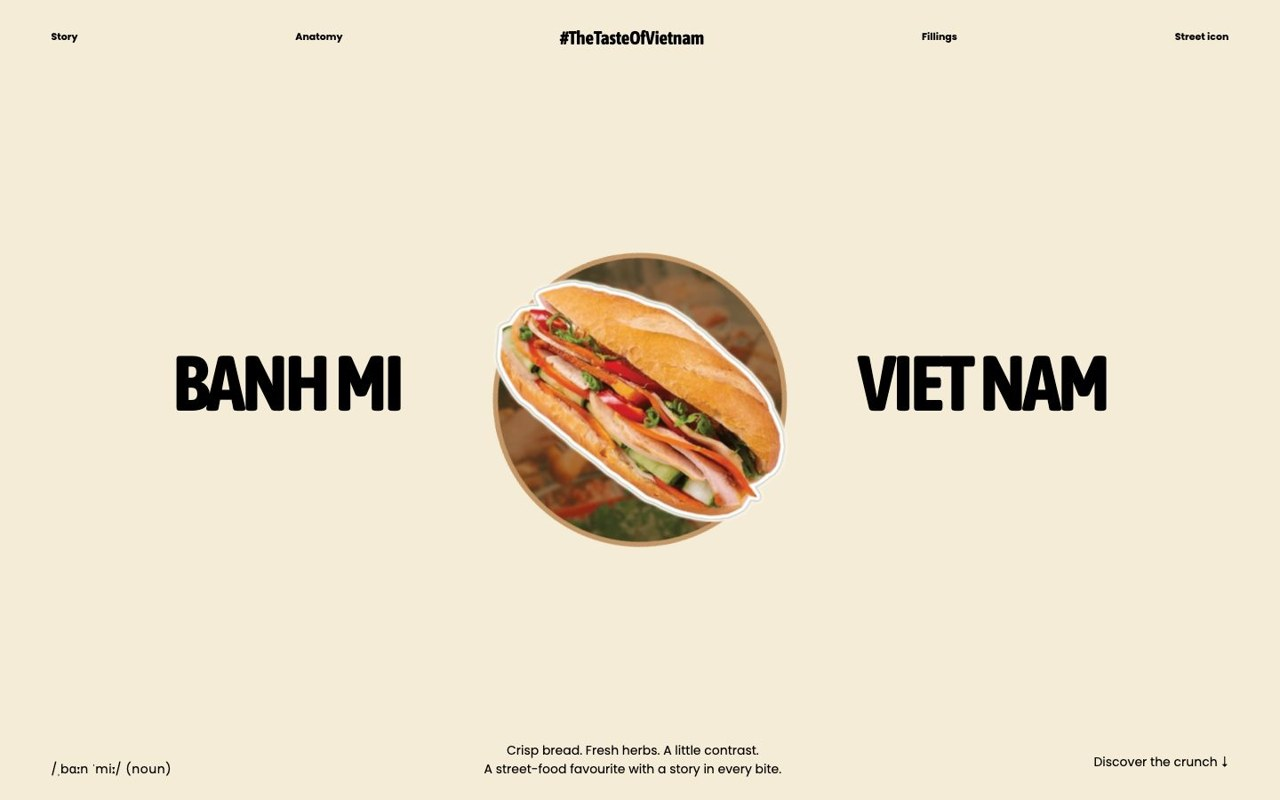
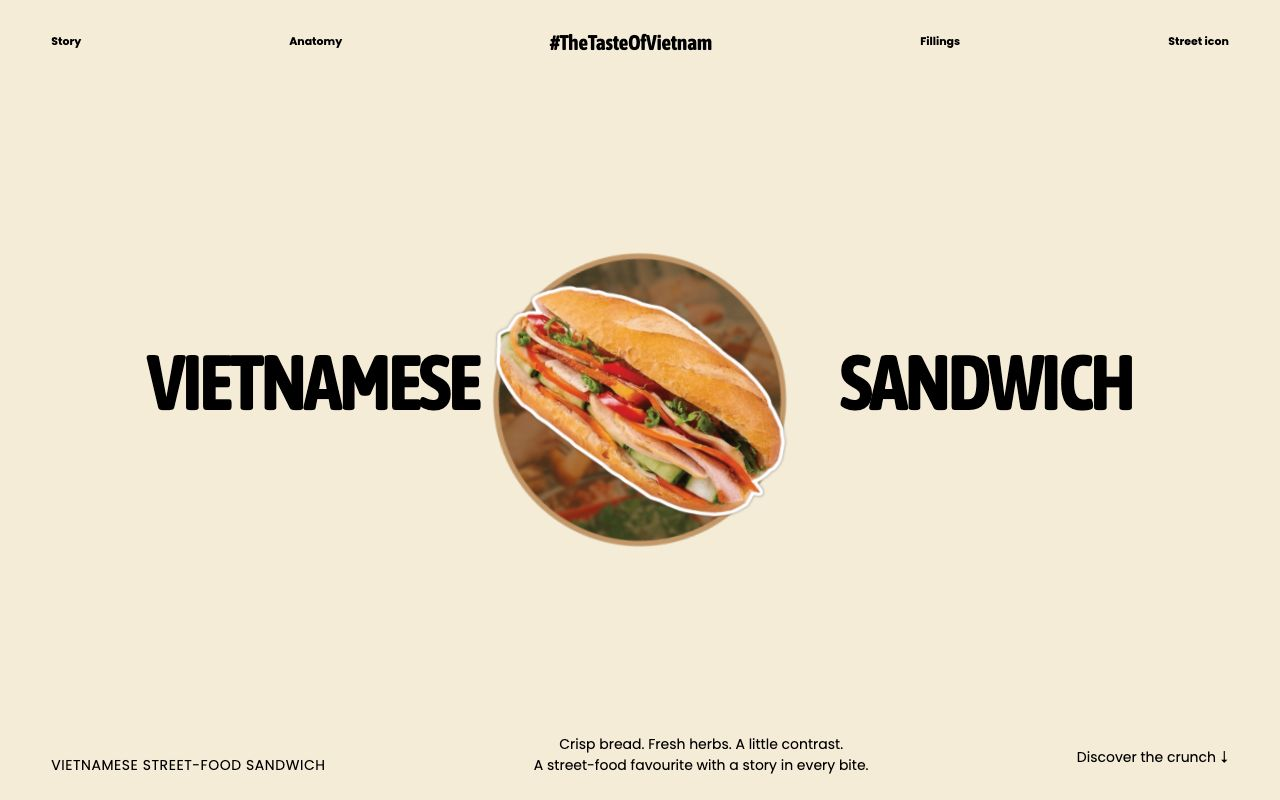
Translate sandwich showcase into English

diff --git a/public/showcase/crunch/index.html b/public/showcase/crunch/index.html
@@ -1,13 +1,13 @@
-<!doctype html><html lang="en"><head><meta charset="utf-8"><meta name="viewport" content="width=device-width,initial-scale=1"><base href="/showcase/crunch/"><title>Bánh Mì — Interactive reference study</title><meta name="description" content="A credited interactive reference study of Bánh Mì Vietnam by HoQuan, implemented for Hemal Herath’s portfolio."><meta name="theme-color" content="#f5ecd7"><link rel="preconnect" href="https://fonts.googleapis.com"><link rel="preconnect" href="https://fonts.gstatic.com" crossorigin><link href="https://fonts.googleapis.com/css2?family=Asap+Condensed:wght@400;700&family=Poppins:wght@400;700&display=swap" rel="stylesheet"><link rel="stylesheet" href="style.css"><link rel="stylesheet" href="editorial.css"><link rel="preload" as="image" href="reference-media/hero-banh-mi.png"><script>setTimeout(()=>{if(document.body?.classList.contains('is-ready'))return;document.querySelector('.loader')?.remove();document.body?.classList.remove('is-loading');document.body?.classList.add('is-ready');document.querySelector('main')?.removeAttribute('inert');document.querySelector('header')?.removeAttribute('inert');document.querySelector('footer')?.removeAttribute('inert');document.dispatchEvent(new Event('site-ready'))},10000)</script><noscript><style>.loader{display:none}.food-film{height:auto!important}.food-stage{position:relative!important;height:auto!important}.food-beat{position:relative!important;opacity:1!important;visibility:visible!important}.sandwich{display:none}.evolution,.history-story{height:auto}.history-pin{height:auto;position:relative;padding:100px 20px 40px}.history-cards{position:relative;inset:auto;display:grid;gap:30px}.history-card{position:relative;min-height:80svh}</style></noscript></head><body>
-<div class="loader" role="status" aria-label="Preparing the Crunch Club story"><div class="load-top mono"><span>CRUNCH CLUB</span><span>GOOD THINGS COME TO THE CURIOUS.</span></div><div class="load-center"><svg viewBox="0 0 160 75" aria-hidden="true"><path d="M13 49C0 39 12 16 35 13L124 8C150 6 165 29 146 44Z"/><path d="m35 14 15 20m19-22 14 20m18-21 14 20M15 53l132-8M17 60l125-8"/></svg><p>BÁNH MÌ<br>VIỆT NAM</p></div><div class="load-bottom"><span class="mono">GETTING THE GOOD STUFF READY</span><span class="load-count" aria-hidden="true">00</span><div class="load-line"><span></span></div></div></div>
+<!doctype html><html lang="en"><head><meta charset="utf-8"><meta name="viewport" content="width=device-width,initial-scale=1"><base href="/showcase/crunch/"><title>Vietnamese Sandwich — Interactive reference study</title><meta name="description" content="An English-language interactive study of HoQuan’s Vietnamese sandwich editorial, implemented for Hemal Herath’s portfolio."><meta name="theme-color" content="#f5ecd7"><link rel="preconnect" href="https://fonts.googleapis.com"><link rel="preconnect" href="https://fonts.gstatic.com" crossorigin><link href="https://fonts.googleapis.com/css2?family=Asap+Condensed:wght@400;700&family=Poppins:wght@400;700&display=swap" rel="stylesheet"><link rel="stylesheet" href="style.css"><link rel="stylesheet" href="editorial.css"><link rel="preload" as="image" href="reference-media/hero-banh-mi.png"><script>setTimeout(()=>{if(document.body?.classList.contains('is-ready'))return;document.querySelector('.loader')?.remove();document.body?.classList.remove('is-loading');document.body?.classList.add('is-ready');document.querySelector('main')?.removeAttribute('inert');document.querySelector('header')?.removeAttribute('inert');document.querySelector('footer')?.removeAttribute('inert');document.dispatchEvent(new Event('site-ready'))},10000)</script><noscript><style>.loader{display:none}.food-film{height:auto!important}.food-stage{position:relative!important;height:auto!important}.food-beat{position:relative!important;opacity:1!important;visibility:visible!important}.sandwich{display:none}.evolution,.history-story{height:auto}.history-pin{height:auto;position:relative;padding:100px 20px 40px}.history-cards{position:relative;inset:auto;display:grid;gap:30px}.history-card{position:relative;min-height:80svh}</style></noscript></head><body>
+<div class="loader" role="status" aria-label="Preparing the Crunch Club story"><div class="load-top mono"><span>CRUNCH CLUB</span><span>GOOD THINGS COME TO THE CURIOUS.</span></div><div class="load-center"><svg viewBox="0 0 160 75" aria-hidden="true"><path d="M13 49C0 39 12 16 35 13L124 8C150 6 165 29 146 44Z"/><path d="m35 14 15 20m19-22 14 20m18-21 14 20M15 53l132-8M17 60l125-8"/></svg><p>VIETNAMESE<br>SANDWICH</p></div><div class="load-bottom"><span class="mono">GETTING THE GOOD STUFF READY</span><span class="load-count" aria-hidden="true">00</span><div class="load-line"><span></span></div></div></div>
 <a class="skip" href="#evolution">Skip to the story</a><header class="food-header"><a href="#evolution">Story</a><a href="#anatomy-spread">Anatomy</a><a class="logo" href="#home">#TheTasteOfVietnam</a><a href="#fillings">Fillings</a><a href="#street-icon">Street icon</a><button data-menu-open aria-label="Open menu" aria-haspopup="dialog" aria-expanded="false">Menu</button></header><dialog class="site-menu" id="site-menu" aria-labelledby="menu-title"><div><h2 id="menu-title" class="mono">CRUNCH CLUB / EXPLORE</h2><button data-menu-close aria-label="Close menu">×</button></div><nav><a href="#home">THE FIRST BITE ↗</a><a href="#evolution">THE EVOLUTION ↗</a><a href="#history">THE HISTORY ↗</a><a href="#anatomy-spread">ANATOMY ↗</a><a href="#fillings">FILLINGS & GALLERY ↗</a><a href="#street-icon">STREET ICON ↗</a><a href="/showcase">HEMAL’S SHOWCASE ↗</a></nav></dialog>
-<div class="page-progress" aria-hidden="true"><span></span></div><main><section class="food-film film" id="home"><div class="food-stage"><div class="food-hero"><h1><span>BANH MI</span><span>VIET NAM</span></h1><div class="hero-bottom"><span class="mono">/ˌbɑːn ˈmiː/ (noun)</span><p>Crisp bread. Fresh herbs. A little contrast.<br>A street-food favourite with a story in every bite.</p><a href="#evolution">Discover the crunch ↓</a></div></div><div class="sandwich-orbit"><div class="food-circle"><img src="reference-media/hero-banh-mi-circle-bg.png" alt="" aria-hidden="true" width="800" height="800"></div><div class="sandwich"><img class="assembled" src="reference-media/hero-banh-mi.png" alt="Vietnamese bánh mì sandwich" data-critical width="800" height="800"></div></div></div></section><section class="evolution" id="evolution"><div class="evolution-pin"><figure class="evo-photo evo-0"><img src="reference-media/evolution-1.png" alt="A crisp Vietnamese sandwich" loading="lazy" width="1200" height="1500"></figure><figure class="evo-photo evo-1"><img src="reference-media/evolution-2.png" alt="Bánh mì with ham and vegetables" loading="lazy" width="1200" height="1500"></figure><figure class="evo-photo evo-2"><img src="reference-media/evolution-3.png" alt="A sandwich enjoyed outside" loading="lazy" width="1200" height="1500"></figure><figure class="evo-photo evo-3"><img src="reference-media/evolution-4.png" alt="Bread and sandwiches at a café" loading="lazy" width="1200" height="1500"></figure><figure class="evo-photo evo-4"><img src="reference-media/evolution-5.png" alt="A colourful Vietnamese sandwich" loading="lazy" width="1200" height="1500"></figure><figure class="evo-photo evo-5"><img src="reference-media/evolution-6.png" alt="Bánh mì served on newspaper" loading="lazy" width="1200" height="1500"></figure><div class="evolution-copy"><p class="mono">01 / A LITTLE HISTORY, A LOT OF FLAVOUR</p><h2>THE EVOLUTION<br>OF BÁNH MÌ</h2><p>French roots.<br>A Vietnamese original.</p></div><a class="evolution-next mono" href="#history">FOLLOW THE STORY ↓</a></div></section>
-<section class="history-story" id="history" aria-labelledby="history-title"><div class="history-pin"><h2 class="sr-only" id="history-title">The bánh mì story through time</h2><span class="history-index mono">01 / 03</span><div class="history-cards">
+<div class="page-progress" aria-hidden="true"><span></span></div><main><section class="food-film film" id="home"><div class="food-stage"><div class="food-hero"><h1><span>VIETNAMESE</span><span>SANDWICH</span></h1><div class="hero-bottom"><span class="mono">VIETNAMESE STREET-FOOD SANDWICH</span><p>Crisp bread. Fresh herbs. A little contrast.<br>A street-food favourite with a story in every bite.</p><a href="#evolution">Discover the crunch ↓</a></div></div><div class="sandwich-orbit"><div class="food-circle"><img src="reference-media/hero-banh-mi-circle-bg.png" alt="" aria-hidden="true" width="800" height="800"></div><div class="sandwich"><img class="assembled" src="reference-media/hero-banh-mi.png" alt="Vietnamese sandwich" data-critical width="800" height="800"></div></div></div></section><section class="evolution" id="evolution"><div class="evolution-pin"><figure class="evo-photo evo-0"><img src="reference-media/evolution-1.png" alt="A crisp Vietnamese sandwich" loading="lazy" width="1200" height="1500"></figure><figure class="evo-photo evo-1"><img src="reference-media/evolution-2.png" alt="Vietnamese sandwich with ham and vegetables" loading="lazy" width="1200" height="1500"></figure><figure class="evo-photo evo-2"><img src="reference-media/evolution-3.png" alt="A sandwich enjoyed outside" loading="lazy" width="1200" height="1500"></figure><figure class="evo-photo evo-3"><img src="reference-media/evolution-4.png" alt="Bread and sandwiches at a café" loading="lazy" width="1200" height="1500"></figure><figure class="evo-photo evo-4"><img src="reference-media/evolution-5.png" alt="A colourful Vietnamese sandwich" loading="lazy" width="1200" height="1500"></figure><figure class="evo-photo evo-5"><img src="reference-media/evolution-6.png" alt="Vietnamese sandwich served on newspaper" loading="lazy" width="1200" height="1500"></figure><div class="evolution-copy"><p class="mono">01 / A LITTLE HISTORY, A LOT OF FLAVOUR</p><h2>THE EVOLUTION<br>OF THE SANDWICH</h2><p>French roots.<br>A Vietnamese original.</p></div><a class="evolution-next mono" href="#history">FOLLOW THE STORY ↓</a></div></section>
+<section class="history-story" id="history" aria-labelledby="history-title"><div class="history-pin"><h2 class="sr-only" id="history-title">The Vietnamese sandwich story through time</h2><span class="history-index mono">01 / 03</span><div class="history-cards">
 <article class="history-card"><div class="history-text"><p class="mono">01 / THE BEGINNING</p><h3>French roots.<br>Vietnamese spirit.</h3><p>The baguette arrived in Vietnam more than a century ago. Local cooks would turn that familiar bread into something with a flavour all its own.</p><span class="history-year">1800s</span></div><img src="reference-media/banh-mi-1859.png" alt="Bread and sandwiches on a café table" loading="lazy" width="1200" height="1600"></article>
 <article class="history-card"><div class="history-text"><p class="mono">02 / MADE ITS OWN</p><h3>A street-food<br>original.</h3><p>Some accounts trace the filled sandwich to Saigon’s street stalls in the late 1950s. Its exact origin remains debated; its mix of fresh herbs, pickles and savoury fillings is unmistakable.</p><span class="history-year">1950s</span></div><img src="reference-media/banh-mi-1958.png" alt="Vietnamese sandwiches filled with meat and vegetables" loading="lazy" width="1200" height="1600"></article>
-<article class="history-card"><div class="history-text"><p class="mono">03 / A WORD OF ITS OWN</p><h3>One small bite.<br>A world of recognition.</h3><p>In 2011, bánh mì entered the Oxford English Dictionary. A local favourite had a place in the world’s vocabulary, with countless interpretations still to come.</p><span class="history-year">2011</span></div><img src="reference-media/banh-mi-2011.png" alt="Bánh mì served on newspaper" loading="lazy" width="1200" height="1600"></article>
+<article class="history-card"><div class="history-text"><p class="mono">03 / A WORD OF ITS OWN</p><h3>One small bite.<br>A world of recognition.</h3><p>In 2011, the Vietnamese name for this sandwich entered the Oxford English Dictionary. A local favourite had a place in the world’s vocabulary, with countless interpretations still to come.</p><span class="history-year">2011</span></div><img src="reference-media/banh-mi-2011.png" alt="Vietnamese sandwich served on newspaper" loading="lazy" width="1200" height="1600"></article>
 </div><a class="history-source" href="https://doodles.google/doodle/celebrating-banh-mi/" target="_blank" rel="noopener noreferrer">History notes ↗</a></div></section>
-<section class="anatomy-spread" id="anatomy-spread" aria-labelledby="anatomy-title"><div class="anatomy-pattern" aria-hidden="true">EVERY LITTLE INGREDIENT / EVERY LITTLE INGREDIENT / EVERY LITTLE INGREDIENT /</div><p class="mono anatomy-kicker">02 / THE WHOLE IS GREATER THAN THE SUM</p><h2 id="anatomy-title">ANATOMY</h2><div class="corner-cut corner-one" aria-hidden="true"><img src="reference-media/carrot.png" alt=""></div><div class="corner-cut corner-two" aria-hidden="true"><img src="reference-media/cucumber.png" alt=""></div><div class="corner-cut corner-three" aria-hidden="true"><img src="reference-media/coriander.png" alt=""></div><div class="corner-cut corner-four" aria-hidden="true"><img src="reference-media/chilli.png" alt=""></div><div class="anatomy-layout"><ul class="anatomy-list list-left"><li>Crisp baguette</li><li>Savoury filling</li><li>Pâté</li><li>Mayonnaise</li><li>Soy sauce</li></ul><div class="anatomy-centre"><img class="anatomy-star" src="reference-media/star-red-10.svg" alt="" aria-hidden="true"><img class="anatomy-sandwich" src="reference-media/anatomy-banh-mi.png" alt="A bánh mì with crisp bread, savoury filling, herbs and pickles" loading="lazy" width="1536" height="1024"></div><ul class="anatomy-list list-right"><li>Pickled daikon</li><li>Cucumber</li><li>Coriander</li><li>Carrot</li><li>Chilli</li></ul></div><span class="anatomy-word">BÁNH MÌ</span><p class="anatomy-note">Every cook has a version. Every layer brings something.</p></section>
-<section class="fillings-title" id="fillings"><p class="mono">03 / MANY WAYS TO MAKE IT YOURS</p><h2><span>TYPES OF <i><img src="reference-media/topping-1.png" alt="" aria-hidden="true" width="1536" height="1024"></i></span><span><i class="type-green"><img src="reference-media/topping-2.png" alt="" aria-hidden="true" width="1536" height="1024"></i> BÁNH MÌ</span><span>FILLINGS <i class="type-clay"><img src="reference-media/topping-3.png" alt="" aria-hidden="true" width="1536" height="1024"></i></span></h2><a href="#food-gallery" class="mono">TAKE A CLOSER LOOK ↓</a></section>
-<section class="food-gallery" id="food-gallery" aria-labelledby="gallery-title"><div class="gallery-copy"><p class="mono">GOOD THINGS, SIDE BY SIDE</p><h2 id="gallery-title">ONE BREAD.<br>SO MANY POSSIBILITIES.</h2><p>A different filling. A different table.<br>There’s always another good bite to discover.</p></div><div class="gallery-window" role="region" aria-roledescription="carousel" aria-label="Bánh mì photo gallery" tabindex="0"><div class="gallery-track"><figure class="gallery-slide"><img src="reference-media/fillings-1.png" alt="Vietnamese bánh mì and accompanying dishes, photo 1" loading="lazy" width="1000" height="1200"><figcaption><span class="mono">01 / 08</span></figcaption></figure><figure class="gallery-slide"><img src="reference-media/fillings-2.png" alt="Vietnamese bánh mì and accompanying dishes, photo 2" loading="lazy" width="1000" height="1200"><figcaption><span class="mono">02 / 08</span></figcaption></figure><figure class="gallery-slide"><img src="reference-media/fillings-3.png" alt="Vietnamese bánh mì and accompanying dishes, photo 3" loading="lazy" width="1000" height="1200"><figcaption><span class="mono">03 / 08</span></figcaption></figure><figure class="gallery-slide"><img src="reference-media/fillings-4.png" alt="Vietnamese bánh mì and accompanying dishes, photo 4" loading="lazy" width="1000" height="1200"><figcaption><span class="mono">04 / 08</span></figcaption></figure><figure class="gallery-slide"><img src="reference-media/fillings-5.png" alt="Vietnamese bánh mì and accompanying dishes, photo 5" loading="lazy" width="1000" height="1200"><figcaption><span class="mono">05 / 08</span></figcaption></figure><figure class="gallery-slide"><img src="reference-media/fillings-6.png" alt="Vietnamese bánh mì and accompanying dishes, photo 6" loading="lazy" width="1000" height="1200"><figcaption><span class="mono">06 / 08</span></figcaption></figure><figure class="gallery-slide"><img src="reference-media/fillings-7.png" alt="Vietnamese bánh mì and accompanying dishes, photo 7" loading="lazy" width="1000" height="1200"><figcaption><span class="mono">07 / 08</span></figcaption></figure><figure class="gallery-slide"><img src="reference-media/fillings-8.png" alt="Vietnamese bánh mì and accompanying dishes, photo 8" loading="lazy" width="1000" height="1200"><figcaption><span class="mono">08 / 08</span></figcaption></figure></div></div><div class="gallery-controls"><button class="gallery-prev" aria-label="Previous gallery photo">←</button><p class="gallery-status mono" aria-live="polite">01 / 08</p><button class="gallery-next" aria-label="Next gallery photo">→</button></div></section><section class="street-icon" id="street-icon"><div class="street-icon-pin"><img class="street-icon-photo icon-photo-one" src="reference-media/street-image-1.png" alt="Vietnamese street-food scene" loading="lazy"><img class="street-icon-photo icon-photo-two" src="reference-media/popular-dish.png" alt="Bánh mì as a popular everyday meal" loading="lazy"><h2>A SMALL SANDWICH.<br>A BIG PART OF<br>VIETNAM’S STREETS.</h2><img class="street-icon-photo icon-photo-three" src="reference-media/delicious-flavor.png" alt="Fresh bánh mì ingredients" loading="lazy"><img class="street-icon-photo icon-photo-four" src="reference-media/street-image-2.png" alt="Everyday food on the streets of Vietnam" loading="lazy"></div></section><section class="closing closing-collage" id="closing"><img class="closing-background" src="reference-media/footer-bg-image.png" alt="" aria-hidden="true" loading="lazy" width="1800" height="2400"><img class="closing-bite closing-bite-one" src="reference-media/footer-banh-mi-top.png" alt="" aria-hidden="true" loading="lazy" width="1536" height="1024"><img class="closing-bite closing-bite-two" src="reference-media/footer-banh-mi-bottom.png" alt="" aria-hidden="true" loading="lazy" width="1536" height="1024"><p class="mono closing-kicker">A LITTLE BREAD. A BIG STORY.</p><h2>“BÁNH MÌ”<br>VIET NAM</h2><div class="paper-invitation"><img class="reference-paper" src="reference-media/footer-paper-center.png" alt="An invitation to visit Vietnam and enjoy bánh mì" width="1000" height="190"></div><a class="closing-contact" href="https://wa.me/94718850419?text=Hi%20Hemal%2C%20I%20like%20the%20Crunch%20Club%20concept.%20Can%20we%20discuss%20a%20website%3F" target="_blank" rel="noopener noreferrer">MAKE YOUR BRAND FEEL THIS ALIVE ↗</a><a class="closing-top mono" href="#home">BACK TO THE FIRST BITE ↑</a></section></main>
-<footer><a href="/showcase">← HEMAL’S SHOWCASE</a><span>REFERENCE STUDY / DESIGN & ASSETS: HOQUAN</span><button id="credits-open">PHOTO CREDITS ↗</button><a href="#home">BACK TO TOP ↑</a></footer><dialog id="credits"><button class="dialog-close" aria-label="Close photo credits">×</button><h2>GOOD FOOD.<br>GOOD PHOTOS.</h2><p>A reference study implemented by Hemal Herath. Visual design and reference artwork: HoQuan / Bánh Mì Vietnam. Additional photography: Pexels. This is an educational portfolio study, not an original client commission.</p><a href="https://banhmivietnam.xyz/" target="_blank" rel="noopener noreferrer">Original design & assets — Bánh Mì Vietnam / HoQuan ↗</a><a href="https://www.pexels.com/photo/fresh-vietnamese-banh-mi-sandwich-close-up-36156594/" target="_blank" rel="noopener noreferrer">Sandwich — Robby McCullough ↗</a><a href="https://www.pexels.com/photo/vibrant-vietnamese-banh-mi-sandwich-close-up-32961648/" target="_blank" rel="noopener noreferrer">Colourful bánh mì ↗</a><a href="https://www.pexels.com/photo/delicious-vietnamese-banh-mi-sandwich-outdoor-shot-32744907/" target="_blank" rel="noopener noreferrer">Street-food photo ↗</a><a href="https://www.pexels.com/photo/rolls-with-ham-and-vegetables-17748172/" target="_blank" rel="noopener noreferrer">Sandwiches on a tray ↗</a><a href="https://www.pexels.com/photo/slices-of-breads-1483769/" target="_blank" rel="noopener noreferrer">Bread & café table ↗</a><a href="https://www.pexels.com/photo/32961654/" target="_blank" rel="noopener noreferrer">Bánh mì on newspaper ↗</a><a href="https://www.vietnam.travel/things-to-do/banh-mi-in-vietnam" target="_blank" rel="noopener noreferrer">Food & history notes — Vietnam Tourism ↗</a><a href="https://www.pexels.com/license/" target="_blank" rel="noopener noreferrer">Pexels license ↗</a></dialog><div class="cursor" aria-hidden="true"></div><script type="module" src="script.js"></script></body></html>
+<section class="anatomy-spread" id="anatomy-spread" aria-labelledby="anatomy-title"><div class="anatomy-pattern" aria-hidden="true">EVERY LITTLE INGREDIENT / EVERY LITTLE INGREDIENT / EVERY LITTLE INGREDIENT /</div><p class="mono anatomy-kicker">02 / THE WHOLE IS GREATER THAN THE SUM</p><h2 id="anatomy-title">ANATOMY</h2><div class="corner-cut corner-one" aria-hidden="true"><img src="reference-media/carrot.png" alt=""></div><div class="corner-cut corner-two" aria-hidden="true"><img src="reference-media/cucumber.png" alt=""></div><div class="corner-cut corner-three" aria-hidden="true"><img src="reference-media/coriander.png" alt=""></div><div class="corner-cut corner-four" aria-hidden="true"><img src="reference-media/chilli.png" alt=""></div><div class="anatomy-layout"><ul class="anatomy-list list-left"><li>Crisp baguette</li><li>Savoury filling</li><li>Pâté</li><li>Mayonnaise</li><li>Soy sauce</li></ul><div class="anatomy-centre"><img class="anatomy-star" src="reference-media/star-red-10.svg" alt="" aria-hidden="true"><img class="anatomy-sandwich" src="reference-media/anatomy-banh-mi.png" alt="A Vietnamese sandwich with crisp bread, savoury filling, herbs and pickles" loading="lazy" width="1536" height="1024"></div><ul class="anatomy-list list-right"><li>Pickled daikon</li><li>Cucumber</li><li>Coriander</li><li>Carrot</li><li>Chilli</li></ul></div><span class="anatomy-word">SANDWICH</span><p class="anatomy-note">Every cook has a version. Every layer brings something.</p></section>
+<section class="fillings-title" id="fillings"><p class="mono">03 / MANY WAYS TO MAKE IT YOURS</p><h2><span>TYPES OF <i><img src="reference-media/topping-1.png" alt="" aria-hidden="true" width="1536" height="1024"></i></span><span><i class="type-green"><img src="reference-media/topping-2.png" alt="" aria-hidden="true" width="1536" height="1024"></i> SANDWICH</span><span>FILLINGS <i class="type-clay"><img src="reference-media/topping-3.png" alt="" aria-hidden="true" width="1536" height="1024"></i></span></h2><a href="#food-gallery" class="mono">TAKE A CLOSER LOOK ↓</a></section>
+<section class="food-gallery" id="food-gallery" aria-labelledby="gallery-title"><div class="gallery-copy"><p class="mono">GOOD THINGS, SIDE BY SIDE</p><h2 id="gallery-title">ONE BREAD.<br>SO MANY POSSIBILITIES.</h2><p>A different filling. A different table.<br>There’s always another good bite to discover.</p></div><div class="gallery-window" role="region" aria-roledescription="carousel" aria-label="Vietnamese sandwich photo gallery" tabindex="0"><div class="gallery-track"><figure class="gallery-slide"><img src="reference-media/fillings-1.png" alt="Vietnamese sandwiches and accompanying dishes, photo 1" loading="lazy" width="1000" height="1200"><figcaption><span class="mono">01 / 08</span></figcaption></figure><figure class="gallery-slide"><img src="reference-media/fillings-2.png" alt="Vietnamese sandwiches and accompanying dishes, photo 2" loading="lazy" width="1000" height="1200"><figcaption><span class="mono">02 / 08</span></figcaption></figure><figure class="gallery-slide"><img src="reference-media/fillings-3.png" alt="Vietnamese sandwiches and accompanying dishes, photo 3" loading="lazy" width="1000" height="1200"><figcaption><span class="mono">03 / 08</span></figcaption></figure><figure class="gallery-slide"><img src="reference-media/fillings-4.png" alt="Vietnamese sandwiches and accompanying dishes, photo 4" loading="lazy" width="1000" height="1200"><figcaption><span class="mono">04 / 08</span></figcaption></figure><figure class="gallery-slide"><img src="reference-media/fillings-5.png" alt="Vietnamese sandwiches and accompanying dishes, photo 5" loading="lazy" width="1000" height="1200"><figcaption><span class="mono">05 / 08</span></figcaption></figure><figure class="gallery-slide"><img src="reference-media/fillings-6.png" alt="Vietnamese sandwiches and accompanying dishes, photo 6" loading="lazy" width="1000" height="1200"><figcaption><span class="mono">06 / 08</span></figcaption></figure><figure class="gallery-slide"><img src="reference-media/fillings-7.png" alt="Vietnamese sandwiches and accompanying dishes, photo 7" loading="lazy" width="1000" height="1200"><figcaption><span class="mono">07 / 08</span></figcaption></figure><figure class="gallery-slide"><img src="reference-media/fillings-8.png" alt="Vietnamese sandwiches and accompanying dishes, photo 8" loading="lazy" width="1000" height="1200"><figcaption><span class="mono">08 / 08</span></figcaption></figure></div></div><div class="gallery-controls"><button class="gallery-prev" aria-label="Previous gallery photo">←</button><p class="gallery-status mono" aria-live="polite">01 / 08</p><button class="gallery-next" aria-label="Next gallery photo">→</button></div></section><section class="street-icon" id="street-icon"><div class="street-icon-pin"><img class="street-icon-photo icon-photo-one" src="reference-media/street-image-1.png" alt="Vietnamese street-food scene" loading="lazy"><img class="street-icon-photo icon-photo-two" src="reference-media/popular-dish.png" alt="Vietnamese sandwich as a popular everyday meal" loading="lazy"><h2>A SMALL SANDWICH.<br>A BIG PART OF<br>VIETNAM’S STREETS.</h2><img class="street-icon-photo icon-photo-three" src="reference-media/delicious-flavor.png" alt="Fresh Vietnamese sandwich ingredients" loading="lazy"><img class="street-icon-photo icon-photo-four" src="reference-media/street-image-2.png" alt="Everyday food on the streets of Vietnam" loading="lazy"></div></section><section class="closing closing-collage" id="closing"><img class="closing-background" src="reference-media/footer-bg-image.png" alt="" aria-hidden="true" loading="lazy" width="1800" height="2400"><img class="closing-bite closing-bite-one" src="reference-media/footer-banh-mi-top.png" alt="" aria-hidden="true" loading="lazy" width="1536" height="1024"><img class="closing-bite closing-bite-two" src="reference-media/footer-banh-mi-bottom.png" alt="" aria-hidden="true" loading="lazy" width="1536" height="1024"><p class="mono closing-kicker">A LITTLE BREAD. A BIG STORY.</p><h2>VIETNAMESE<br>SANDWICH</h2><div class="paper-invitation"><img class="reference-paper" src="reference-media/footer-paper-center.png" alt="An invitation to visit Vietnam and enjoy Vietnamese sandwich" width="1000" height="190"></div><a class="closing-contact" href="https://wa.me/94718850419?text=Hi%20Hemal%2C%20I%20like%20the%20Crunch%20Club%20concept.%20Can%20we%20discuss%20a%20website%3F" target="_blank" rel="noopener noreferrer">MAKE YOUR BRAND FEEL THIS ALIVE ↗</a><a class="closing-top mono" href="#home">BACK TO THE FIRST BITE ↑</a></section></main>
+<footer><a href="/showcase">← HEMAL’S SHOWCASE</a><span>REFERENCE STUDY / DESIGN & ASSETS: HOQUAN</span><button id="credits-open">PHOTO CREDITS ↗</button><a href="#home">BACK TO TOP ↑</a></footer><dialog id="credits"><button class="dialog-close" aria-label="Close photo credits">×</button><h2>GOOD FOOD.<br>GOOD PHOTOS.</h2><p>A reference study implemented by Hemal Herath. Visual design and reference artwork: HoQuan’s Vietnamese sandwich editorial. Additional photography: Pexels. This is an educational portfolio study, not an original client commission.</p><a href="https://banhmivietnam.xyz/" target="_blank" rel="noopener noreferrer">Original design & assets — HoQuan ↗</a><a href="https://www.pexels.com/photo/fresh-vietnamese-banh-mi-sandwich-close-up-36156594/" target="_blank" rel="noopener noreferrer">Sandwich — Robby McCullough ↗</a><a href="https://www.pexels.com/photo/vibrant-vietnamese-banh-mi-sandwich-close-up-32961648/" target="_blank" rel="noopener noreferrer">Colourful Vietnamese sandwich ↗</a><a href="https://www.pexels.com/photo/delicious-vietnamese-banh-mi-sandwich-outdoor-shot-32744907/" target="_blank" rel="noopener noreferrer">Street-food photo ↗</a><a href="https://www.pexels.com/photo/rolls-with-ham-and-vegetables-17748172/" target="_blank" rel="noopener noreferrer">Sandwiches on a tray ↗</a><a href="https://www.pexels.com/photo/slices-of-breads-1483769/" target="_blank" rel="noopener noreferrer">Bread & café table ↗</a><a href="https://www.pexels.com/photo/32961654/" target="_blank" rel="noopener noreferrer">Vietnamese sandwich on newspaper ↗</a><a href="https://www.vietnam.travel/things-to-do/banh-mi-in-vietnam" target="_blank" rel="noopener noreferrer">Food & history notes — Vietnam Tourism ↗</a><a href="https://www.pexels.com/license/" target="_blank" rel="noopener noreferrer">Pexels license ↗</a></dialog><div class="cursor" aria-hidden="true"></div><script type="module" src="script.js"></script></body></html>

diff --git a/public/showcase/index.html b/public/showcase/index.html
@@ -231,7 +231,7 @@ footer .wrap{display:flex;justify-content:space-between;gap:16px;flex-wrap:wrap}
 <script type="importmap">{"imports":{"three":"https://cdn.jsdelivr.net/npm/three@0.169.0/build/three.module.js"}}</script>
 <script>
 window.PROJECTS = [
-  {slug:"crunch", name:"Crunch Club", kind:"Bánh Mì · reference study", color:"#d4a373", bg:"#20190e", line:"A credited study of HoQuan’s Bánh Mì Vietnam: photo collage, history cards, anatomy and a touch gallery.", tags:["Editorial motion","Scroll animation","Photo gallery","Reference study"]},
+  {slug:"crunch", name:"Crunch Club", kind:"Vietnamese sandwich · reference study", color:"#d4a373", bg:"#20190e", line:"A credited study of HoQuan’s Vietnamese sandwich editorial: photo collage, history cards, anatomy and a touch gallery.", tags:["Editorial motion","Scroll animation","Photo gallery","Reference study"]},
   {slug:"afterhours", name:"Afterhours", kind:"Crow · reference study", color:"#ff3d81", bg:"#050507", line:"A credited study of Crow / Fly Crooked’s illustrated Rome film, from the flight to an unexpected open door.", tags:["Scroll-driven video","Scroll choreography","Illustrated Rome","Reference study"]},
   {slug:"tea",      name:"Mistline",     kind:"Ceylon tea",       color:"#7fb08a", bg:"#06110c", line:"A mist film behind a soft serif headline, and a pinned climb to 1,868 m that changes the tea as you scroll.", tags:["Video hero","Pinned scroll","SplitText","Editorial"]},
   {slug:"villa",    name:"Saffron Reef", kind:"Tangalle villa",   color:"#e3a23e", bg:"#120b05", line:"A drone film under thin serif capitals, a sticky day-at-the-villa story and hover previews.", tags:["Video hero","Sticky story","GSAP","Editorial"]},

diff --git a/app/data/portfolio.ts b/app/data/portfolio.ts
@@ -592,7 +592,7 @@ export const showcaseWhatsApp =
   "https://wa.me/94718850419?text=Hi%20Hemal%2C%20I%20saw%20your%203D%20showcase%20and%20I%27d%20like%20a%20website.";
 
 export const showcaseSites: ShowcaseSite[] = [
-  { slug: "crunch", name: "Crunch Club", kind: "Bánh Mì · reference study", line: "A credited study of HoQuan’s Bánh Mì Vietnam: floating photographs, stacked history cards, an anatomy spread and a touch gallery.", stack: ["Editorial motion", "Scroll animation", "Reference study"], href: "/showcase/crunch", status: "concept" },
+  { slug: "crunch", name: "Crunch Club", kind: "Vietnamese sandwich · reference study", line: "A credited study of HoQuan’s Vietnamese sandwich editorial: floating photographs, stacked history cards, an anatomy spread and a touch gallery.", stack: ["Editorial motion", "Scroll animation", "Reference study"], href: "/showcase/crunch", status: "concept" },
   {
     slug: "afterhours",
     name: "Afterhours",

diff --git a/public/showcase/crunch/editorial.css b/public/showcase/crunch/editorial.css
@@ -39,3 +39,7 @@
 html.lenis,html.lenis body{height:auto}.lenis.lenis-smooth{scroll-behavior:auto!important}.lenis.lenis-smooth [data-lenis-prevent]{overscroll-behavior:contain}.lenis.lenis-stopped{overflow:clip}
 
 .is-ready .food-hero h1 span,.is-ready .sandwich .assembled,.is-ready .food-circle img{animation-delay:.65s}.street-icon.is-motion-active .street-icon-photo{will-change:transform}
+
+/* Keep the longer English title inside the phone's content width. */
+@media(max-width:700px){.closing-collage h2{font-size:18vw}}
+@media(min-width:701px){.food-hero h1{left:11.5%;right:11.5%}}
